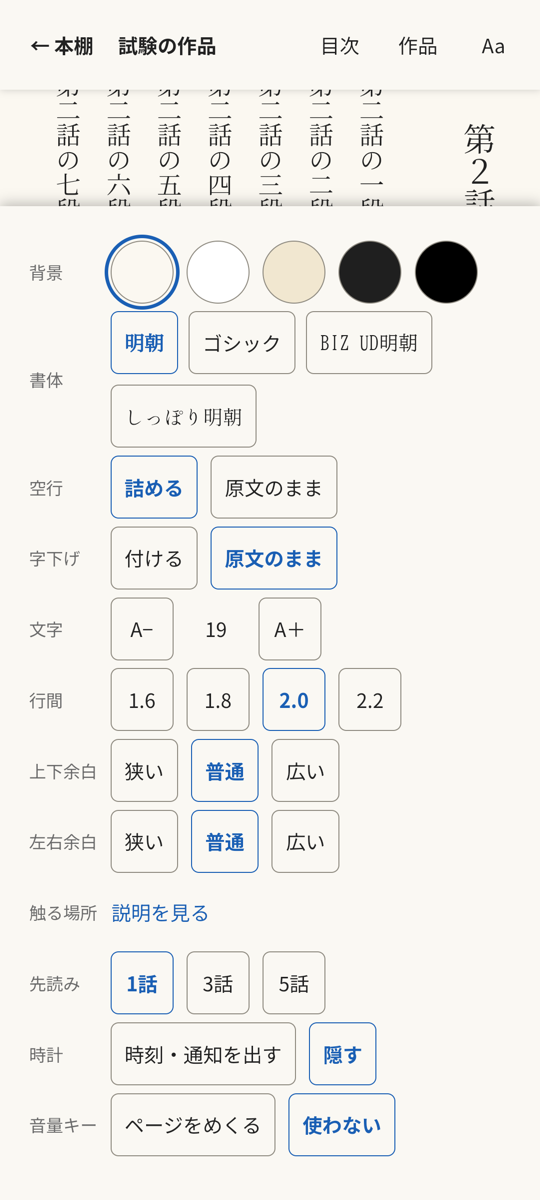
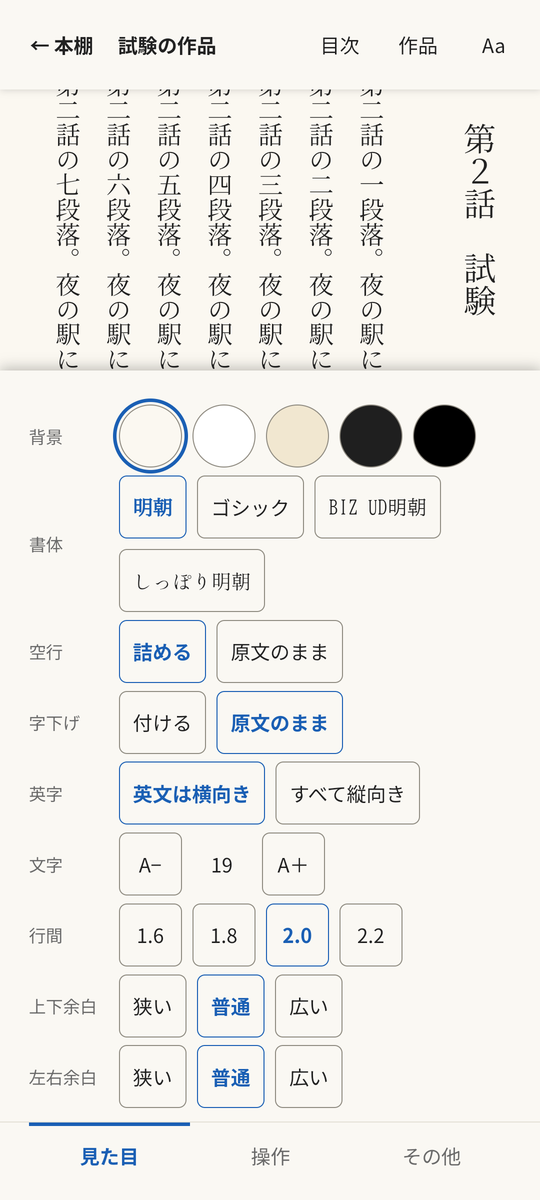
Point the download page at 0.1.6, and show Aa's tabs in its picture

diff --git a/site/index.html b/site/index.html
@@ -26,7 +26,7 @@
   "applicationCategory": "BookApplication",
   "operatingSystem": "Android 13+",
   "url": "https://harusame64.github.io/tategaki-cho/",
-  "downloadUrl": "https://github.com/Harusame64/tategaki-cho/releases/download/v0.1.5/tategaki-cho-0.1.5.apk",
+  "downloadUrl": "https://github.com/Harusame64/tategaki-cho/releases/download/v0.1.6/tategaki-cho-0.1.6.apk",
   "license": "https://www.gnu.org/licenses/gpl-3.0.html",
   "inLanguage": "ja",
   "isAccessibleForFree": true,
@@ -49,7 +49,7 @@
 
   <div class="download">
     <!-- The APK itself, by version (its file name carries the version). Updated at each release (docs/release.md). -->
-    <a class="button" href="https://github.com/Harusame64/tategaki-cho/releases/download/v0.1.5/tategaki-cho-0.1.5.apk">アプリをダウンロード（APK・0.1.5）</a>
+    <a class="button" href="https://github.com/Harusame64/tategaki-cho/releases/download/v0.1.6/tategaki-cho-0.1.6.apk">アプリをダウンロード（APK・0.1.6）</a>
     <p>Android 13 以上で使えます。<br>Google Play で公開される前の試用版です。<a href="#install">インストールの手順</a>を見ながら進めてください。</p>
   </div>
 
